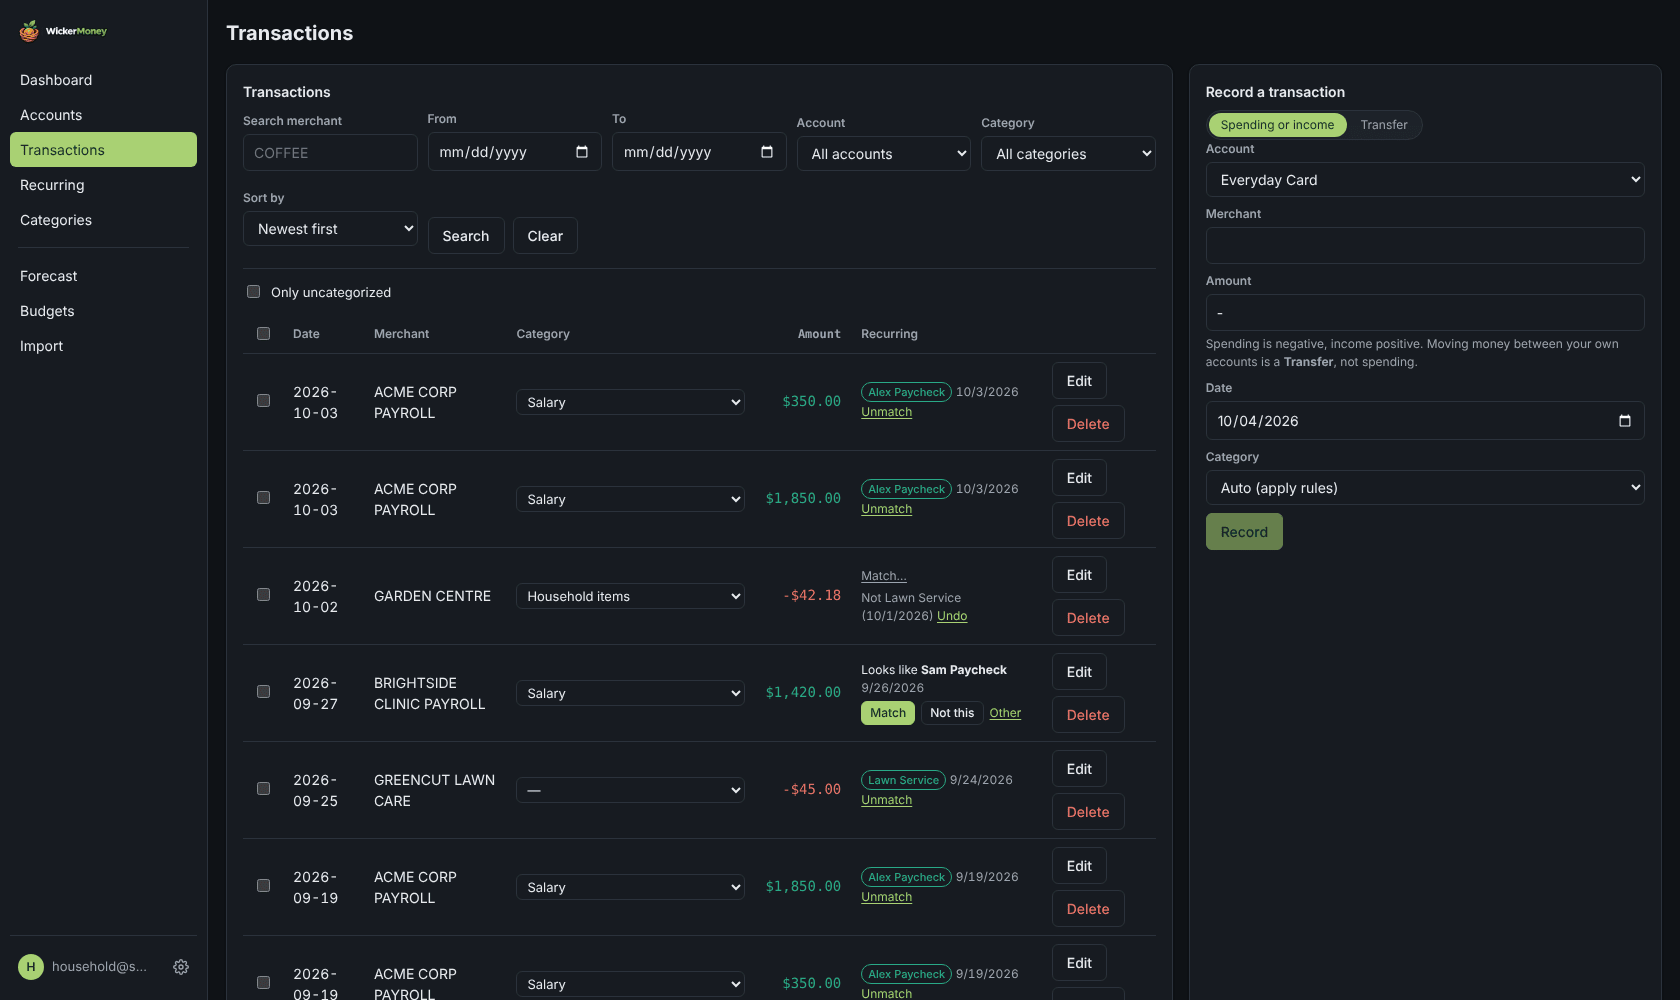
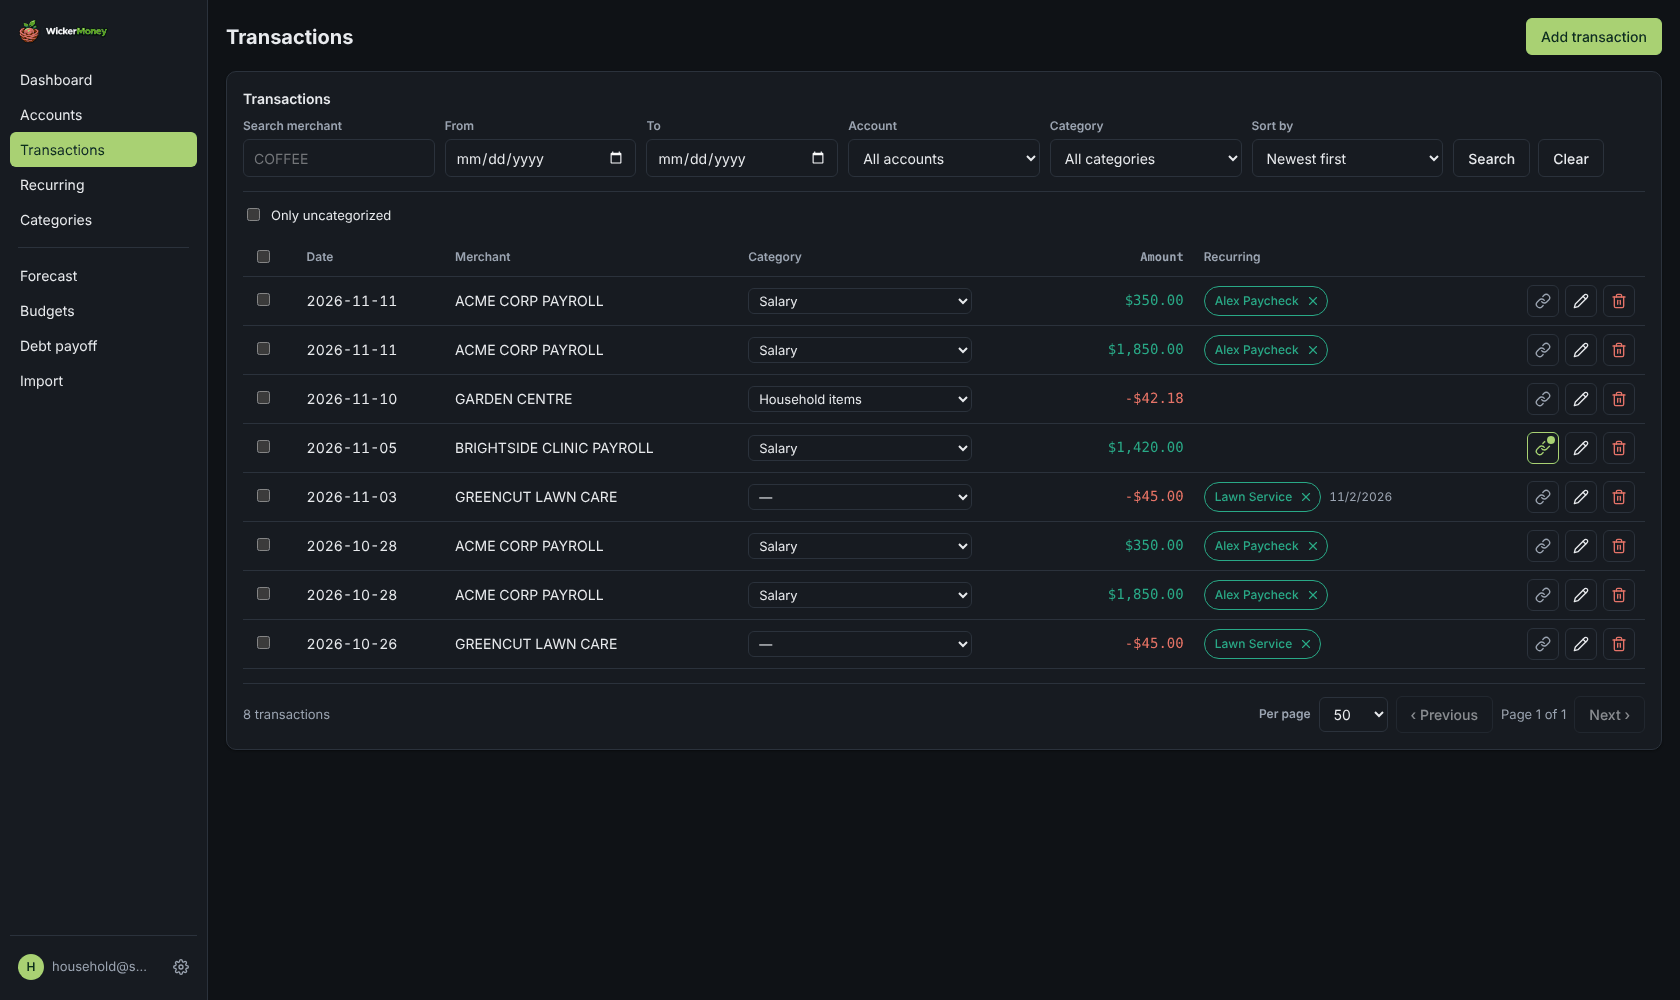
docs: retake the Transactions screenshots for the new recurring column (#126)
transactions-light.png and transactions-dark.png still showed the
pre-0.7.0 table: a Record a transaction panel and text Match, Unmatch
and Edit buttons. Retaken with docs/screenshots/capture.mjs on a freshly
migrated and seeded database (household persona, 1680x1000, UTC), then
reduced to a 256-colour palette like the other images (pngquant is not
installed here, so Pillow median-cut quantisation instead; 54 KB each,
the old files were 55 and 56 KB).

Update the README alt text to describe what the image now shows, and
drop the ROADMAP idea that asked for this retake.

diff --git a/ROADMAP.md b/ROADMAP.md
@@ -117,7 +117,5 @@ Smaller things noticed during `v0.7.0`. These are not plans.
   buttons and checkboxes) drops keyboard focus to the page; the time zone Save
   is the only one fixed.
 - Pressing Escape in the open phone navigation drawer drops focus.
-- A docs-site page for the `API_RATE_LIMIT_*` variables, and a closer look at an
-  import of 25 MB or more under the new rate and concurrency limits.
-- Retake the README screenshots of Transactions, which still show the earlier
-  recurring column.
+- A closer look at an import of 25 MB or more under the new rate and concurrency
+  limits.

diff --git a/README.md b/README.md
@@ -36,7 +36,7 @@ is not supported yet.
 <strong>Transactions</strong><br>
 <picture>
   <source media="(prefers-color-scheme: dark)" srcset="docs/screenshots/transactions-dark.png">
-  <img alt="Transactions page with the Recurring column showing matched paychecks and a suggested match" src="docs/screenshots/transactions-light.png">
+  <img alt="Transactions page with the Recurring column showing a pill for each matched paycheck, and the Link button marked on a row with a suggested match" src="docs/screenshots/transactions-light.png">
 </picture>
 </td>
 <td width="50%">
